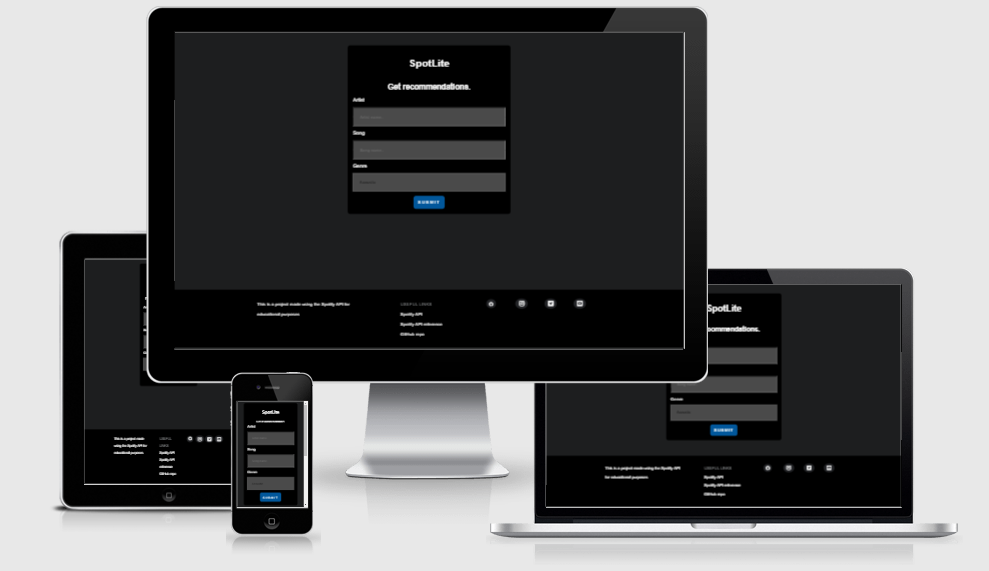
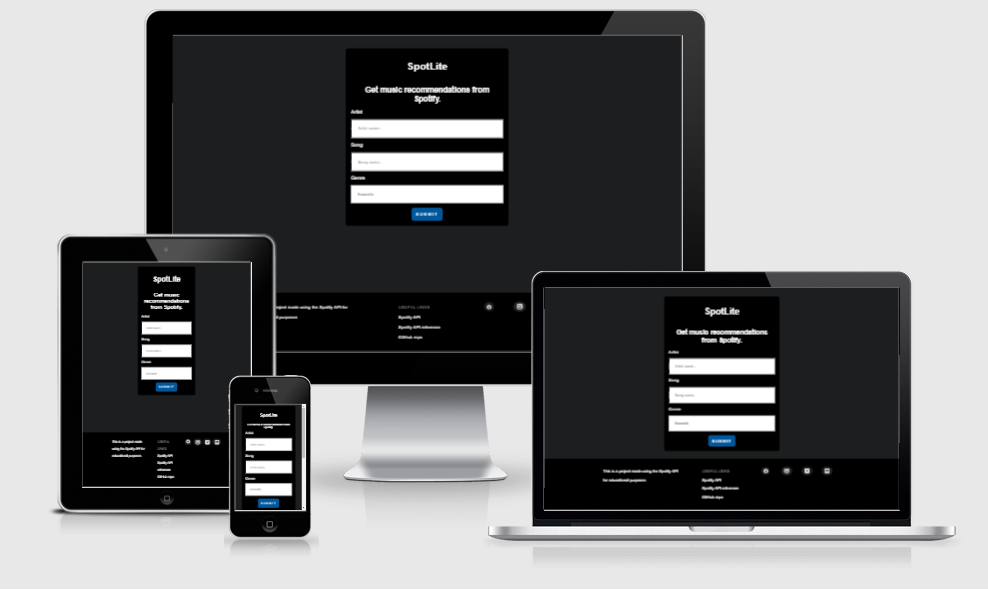
Add updated pictures to readme

diff --git a/README.md b/README.md
@@ -20,7 +20,7 @@ If you wish to gain access to the use of this app, please contact me at michael_
 
 Here is a video recording of the app in use if you do not wish to gain access but want to see it in action.
 
-[YouTube link to video](https://www.youtube.com/watch?v=TGS48JcPmIc&ab_channel=MichaelLenahan)
+[YouTube link to video](https://www.youtube.com/watch?v=JTDleBibUr4&ab_channel=MichaelLenahan)
 
 My site is designed around the principals of [Material Design](https://material.io/design).
 
@@ -31,6 +31,8 @@ My site is designed around the principals of [Material Design](https://material.
     - I created the design for the project using [Figma](https://www.figma.com/). This was a good oppertunity to develop the skills I had learned using Figma for the first time on my last project.
     - Here is a link to my figma file for this project [Figma](https://www.figma.com/file/hRjRB7sUTKK0itIYNlGBlH/SpotLite?node-id=0%3A1)
 
+    - The styling and some of the colours I have used are based around the design of the Spotify App
+
 ## Features
 
 Here I will highlight the main features I have included in SpotLite.
@@ -39,7 +41,7 @@ Here I will highlight the main features I have included in SpotLite.
 
 - __Recommendations Form__
     
-    ![image](readme-screenshots/recommendationsform.png)
+    ![image](readme-screenshots/form-feature.png)
 
     - As you open SpotLite, the first thing you will see is the recommendations form.
     - This form will allow the user to enter information about a song, artist and genre and get back the recommendations based on the information they have entered. 
@@ -114,18 +116,18 @@ Here I will highlight the main features I have included in SpotLite.
 ![image](readme-screenshots/am-i-responsive.png) 
 
 ### iPhone
-![image](readme-screenshots/iphone2.jpg)
+![image](readme-screenshots/iphone-form.jpg)
 
-![image](readme-screenshots/iphone.jpg)
+![image](readme-screenshots/iphone-recommendations.jpg)
 
 ### iPad
-![image](readme-screenshots/ipad1.png)
+![image](readme-screenshots/ipad-form.jpg)
 
-![image](readme-screenshots/ipad2.png)
+![image](readme-screenshots/ipad-recommendations.jpg)
 
 
 ### Recommendations Page Desktop
-![image](readme-screenshots/desktop-recommendations.jpg)
+![image](readme-screenshots/form-desktop.png)
 
 - There are no know issues with responsiveness across all devices and browsers I have tested.
 
